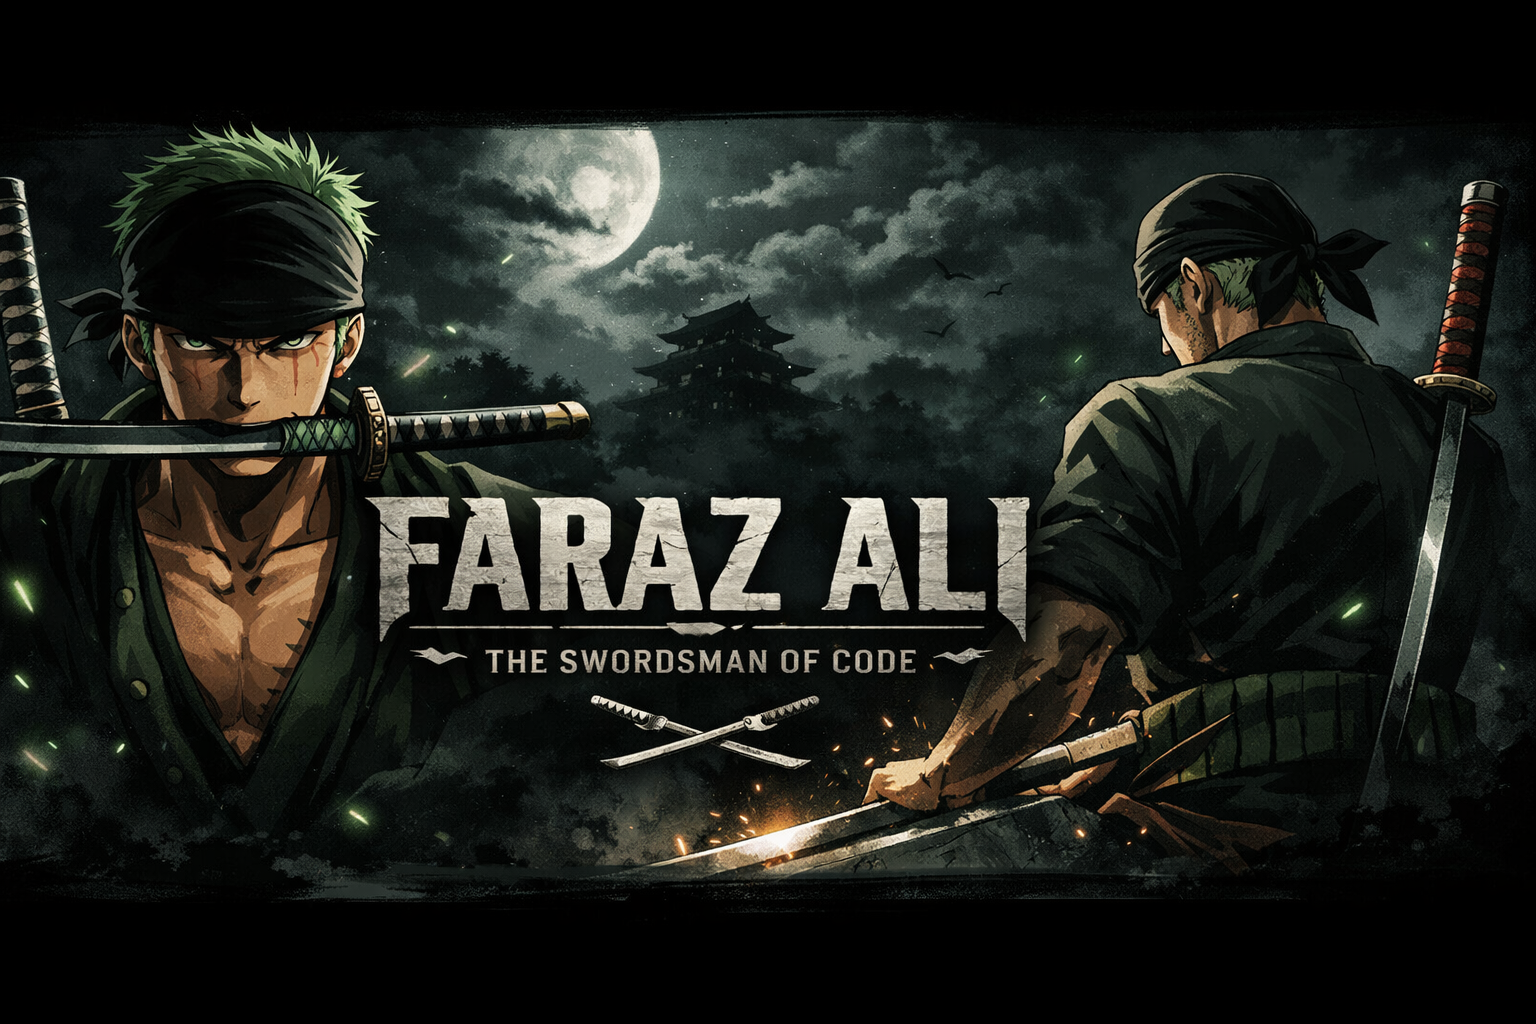
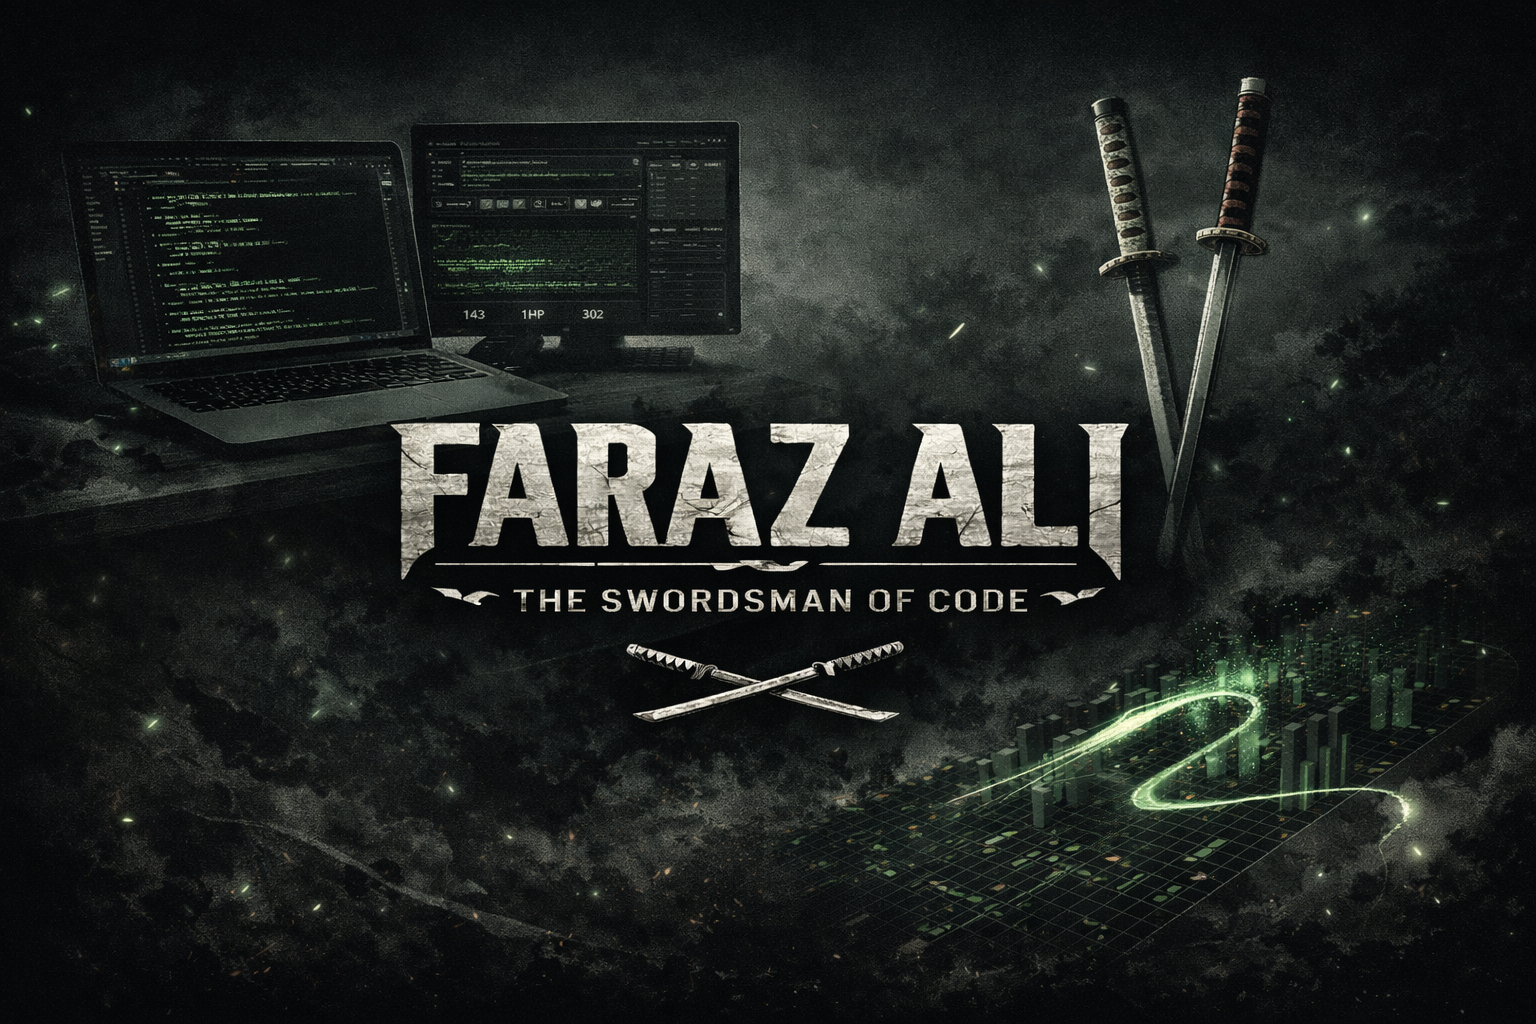
test zoro theme

diff --git a/README.md b/README.md
@@ -6,7 +6,7 @@
 <h1 align="center">⚔ FARAZ ALI</h1>
 
 <p align="center">
-  <strong>Swordsman of Software • Founder • Silent Builder</strong>
+  <strong>Software Engineer • Full Stack Developer • Silent Builder</strong>
 </p>
 
 <p align="center">
@@ -44,7 +44,7 @@ I **cut bugs cleanly**.
 |------|-----------|-------------|
 | **Wado Ichimonji** | Purity | Clean Architecture, Types, Tests |
 | **Sandai Kitetsu** | Risk | Performance, Systems, Scaling |
-| **Yubashiri** | Flow | DX, Tooling, Automation |
+| **Enma** | Flow | DX, Tooling, Automation |
 
 ---
 
@@ -52,17 +52,12 @@ I **cut bugs cleanly**.
 
 **Frontend**
 ██████████████░░░░ 85%
+
 **Backend**
 ████████████████░░ 90%
 
-markdown
-Copy code
-
 **System Design**
 ███████████████░░░ 88%
-
-markdown
-Copy code
 
 **Discipline**
 ██████████████████ 100%
